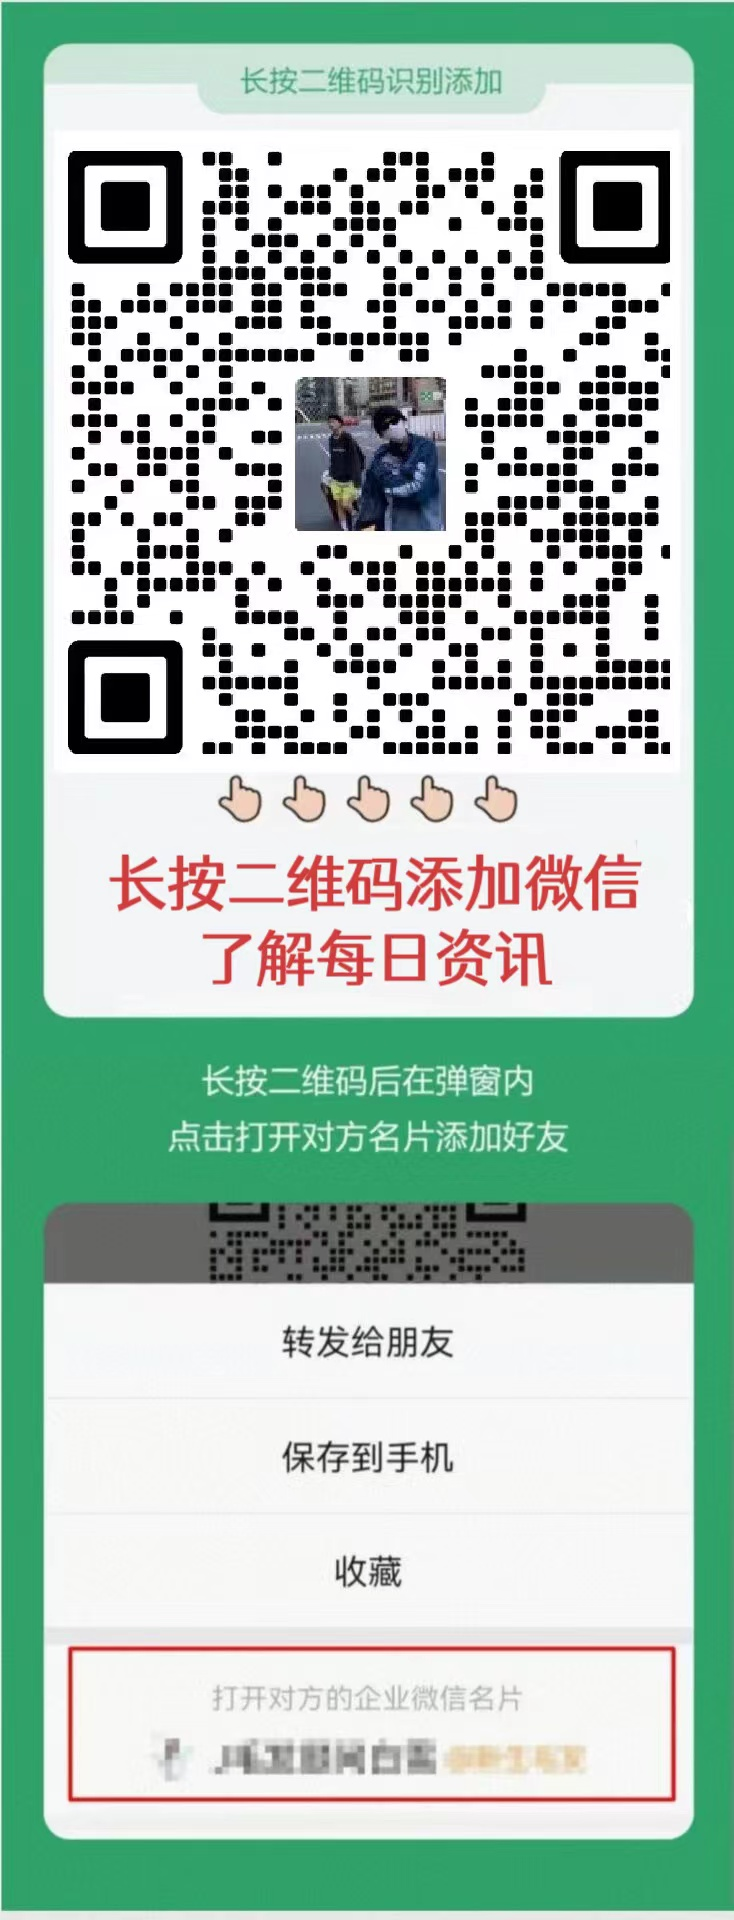
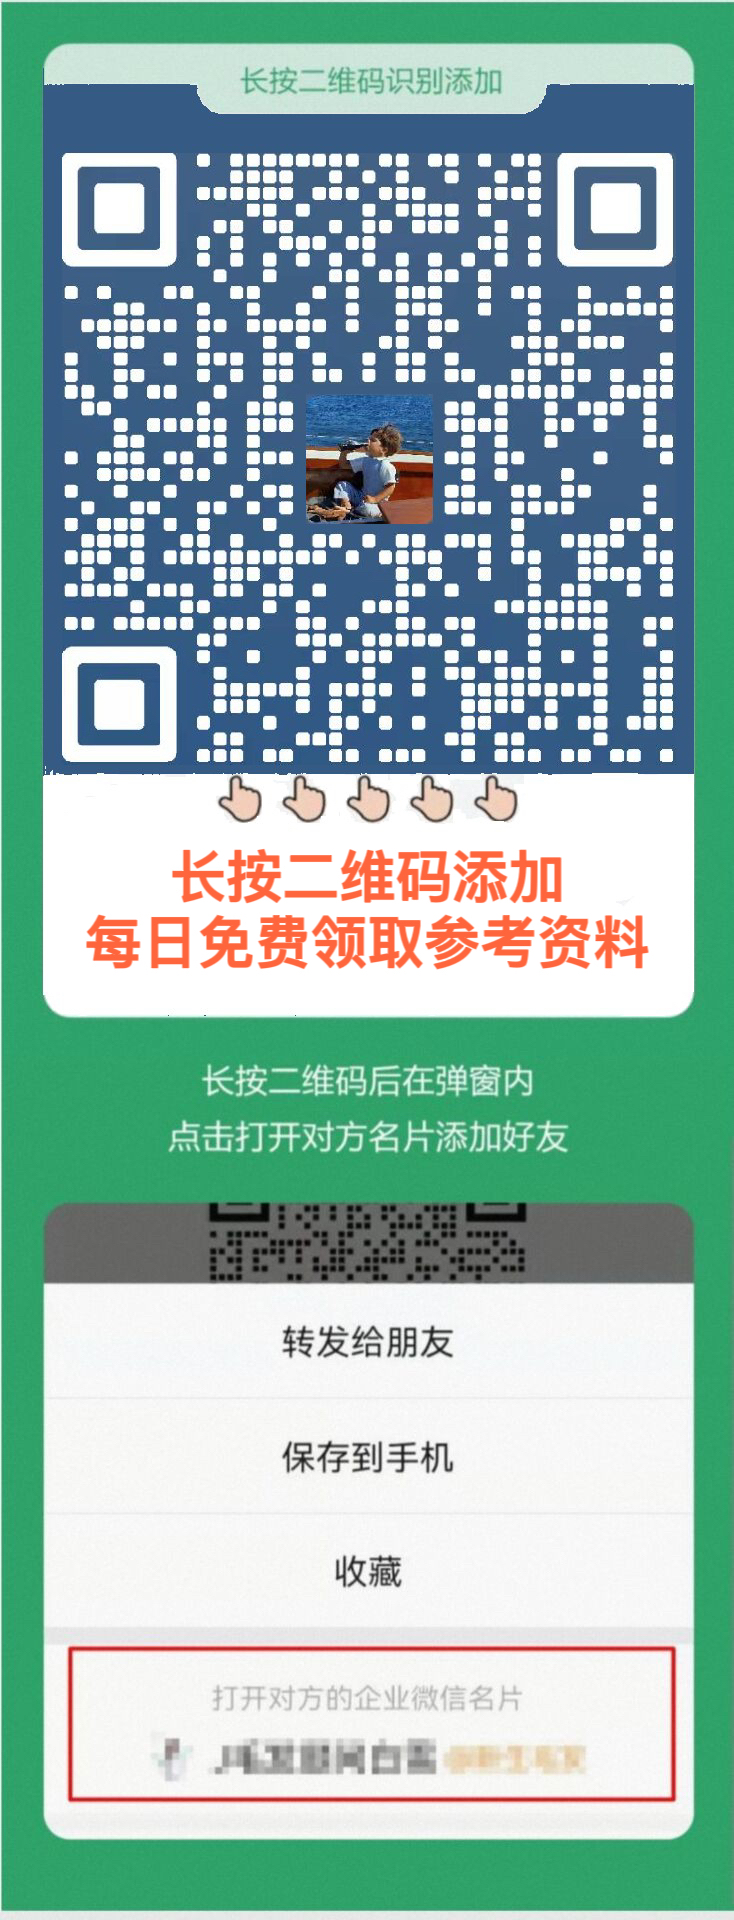
update

diff --git a/index.html b/index.html
@@ -9,7 +9,7 @@
 <body>
  <div style="position:relative">
         <img class="wechatImage" src=""  style="position:absolute;left:0;margin-top:180px;z-index:3;margin-left: 80px;height: 800px;">
-        <img src="./123.jpg" style="position:absolute;left: -6px;top: -9px;z-index:1;width: 974px;">
+        <img src="./1.jpg" style="position:absolute;left: -6px;top: -9px;z-index:1;width: 974px;">
     </div>
 </body>
 <script>
